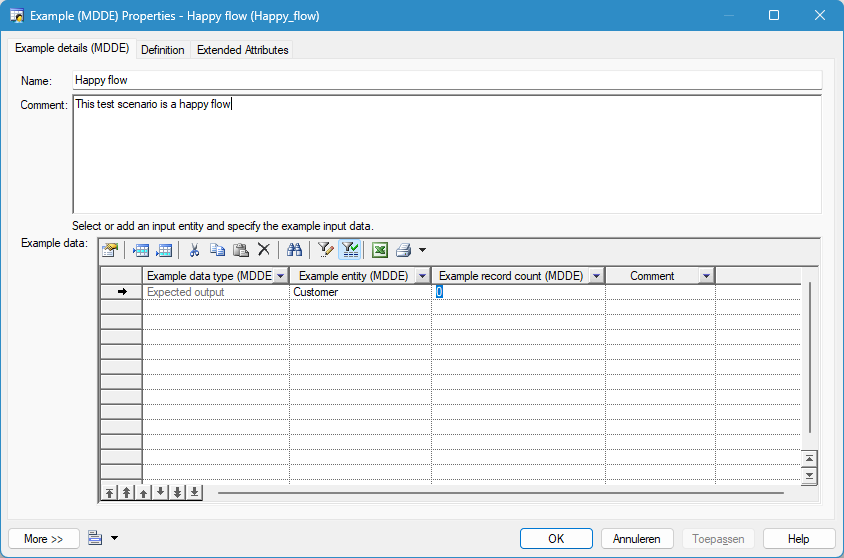
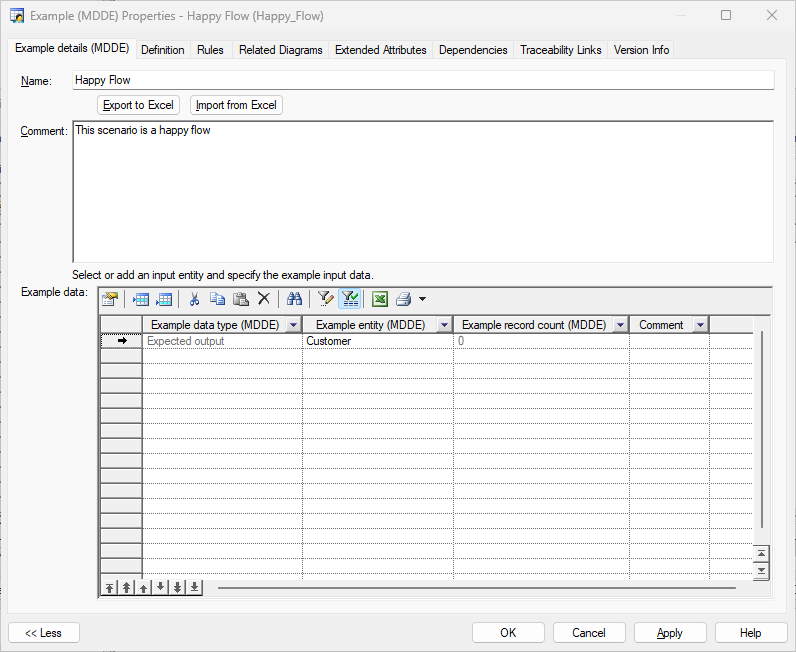
Small update and completed manual

Changed region(s): [[0.0, 0.0, 1.0, 1.0], [0.0, 0.9444, 0.1206, 1.0]]

diff --git a/manual/Mapping.md b/manual/Mapping.md
@@ -163,17 +163,35 @@ To specify example data records (either for source input or expected output), do
 > Make sure for all example records within an example data set (input or output) (as created in the 'Example data' section) the same attributes are used. So if in the first record for 3 attributes example values are given, make sure for the other records for the same attributes example values are given.
 
 #### Create example data records using the Excel Import/Export buttons
-The easiest way to use the Excel Import/Export feature is to follow the following steps:
+The easiest way to use the Excel Import/Export feature is to follow the steps below:
 1. Create Example input entries for all needed source entities.
-2. Export the example to Excel, you will now have an Excel file with sheets for the output entity and for all input entities.
-3. Create the example input and output records in Excel for the output and input entities.
+
+   ![Mapping example - Create input entries for all needed sources](img/mapping_example_data_input_output.png)
+
+2. Export the example to Excel, you will now have an Excel file with sheets for the output entity and for all input entities specified in the example.
+
+   ![Mapping example - Initial Excel file](img/mapping_example_excel_export_initial.png)
+
+3. Create the example input and output records in Excel for the output and input entities. Note that the first row in each sheet might contain information on the expected data format for the specific column. In the example below, the Id column for Customer needs to be numeric (integer), which is indicated by the # in the first row. For each record the RecordID should be defined. This is used as an identifier for the data in PowerDesigner. Make sure the RecordID is unique within the worksheet/table.
+
+   Customer input example:
+   ![Mapping example - Example Customer input](img/mapping_example_excel_export_input_customer.png)
+   
+   Country input example:
+   ![Mapping example - Example Country input](img/mapping_example_excel_export_input_country.png)
+   
+   Customer expected output example (note the format indication on CustomerId and TotalRevenue):
+   ![Mapping example -Example Customer output](img/mapping_example_excel_export_output.png)
+
 4. Save the Excel file and import it back to PowerDesigner.
+5. After the import is complete, close and re-open the example to inspect the imported example data records.
 
 > Note: When importing a testscenario from Excel, all existing example records defined on the testscenario in PowerDesigner are removed and replaced by the example records in the Excel file.
 
 A complete example should contain expected input and output records as shown below:
 
 ![Mapping example - complete example](img/mapping_example_total.png)
+
 When you want to create multiple examples, follow the the above steps for every example.
 
 ***
